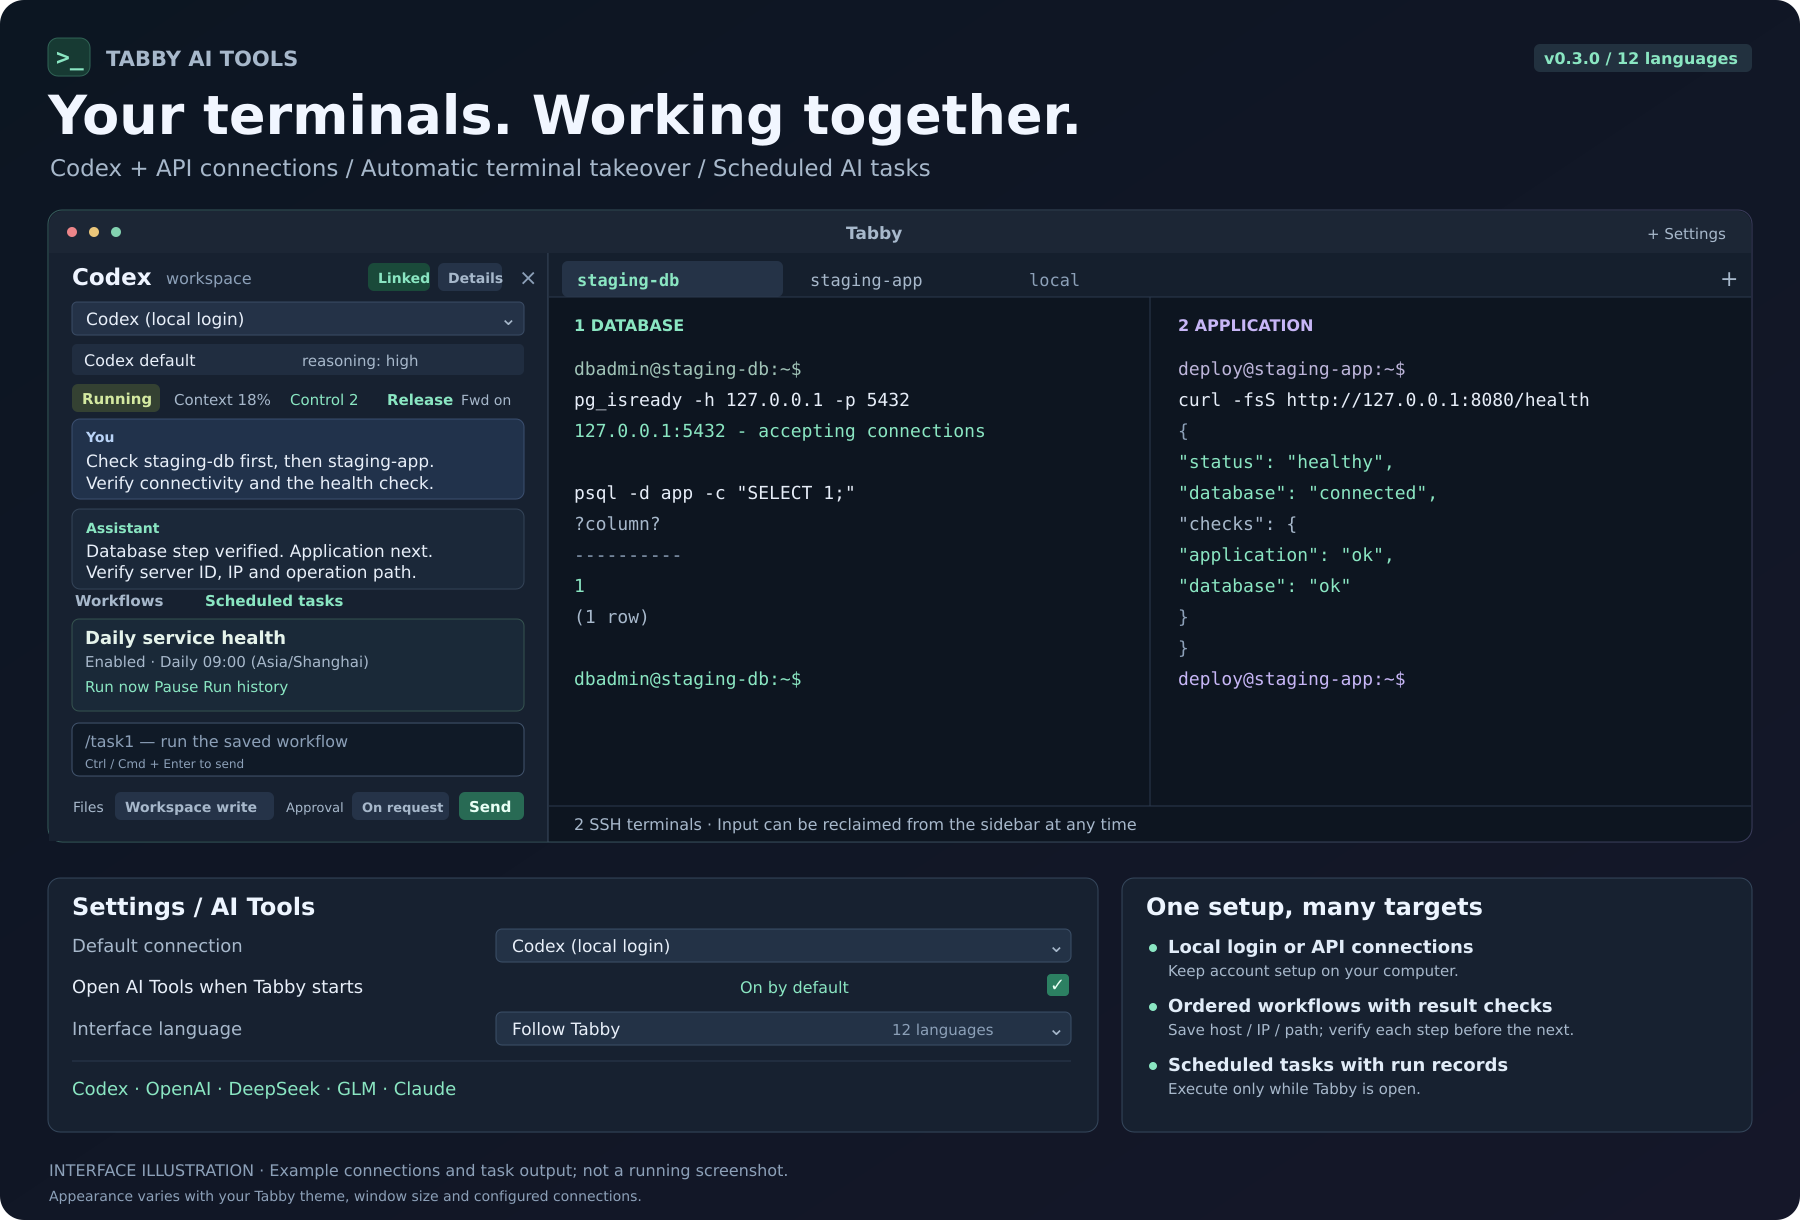
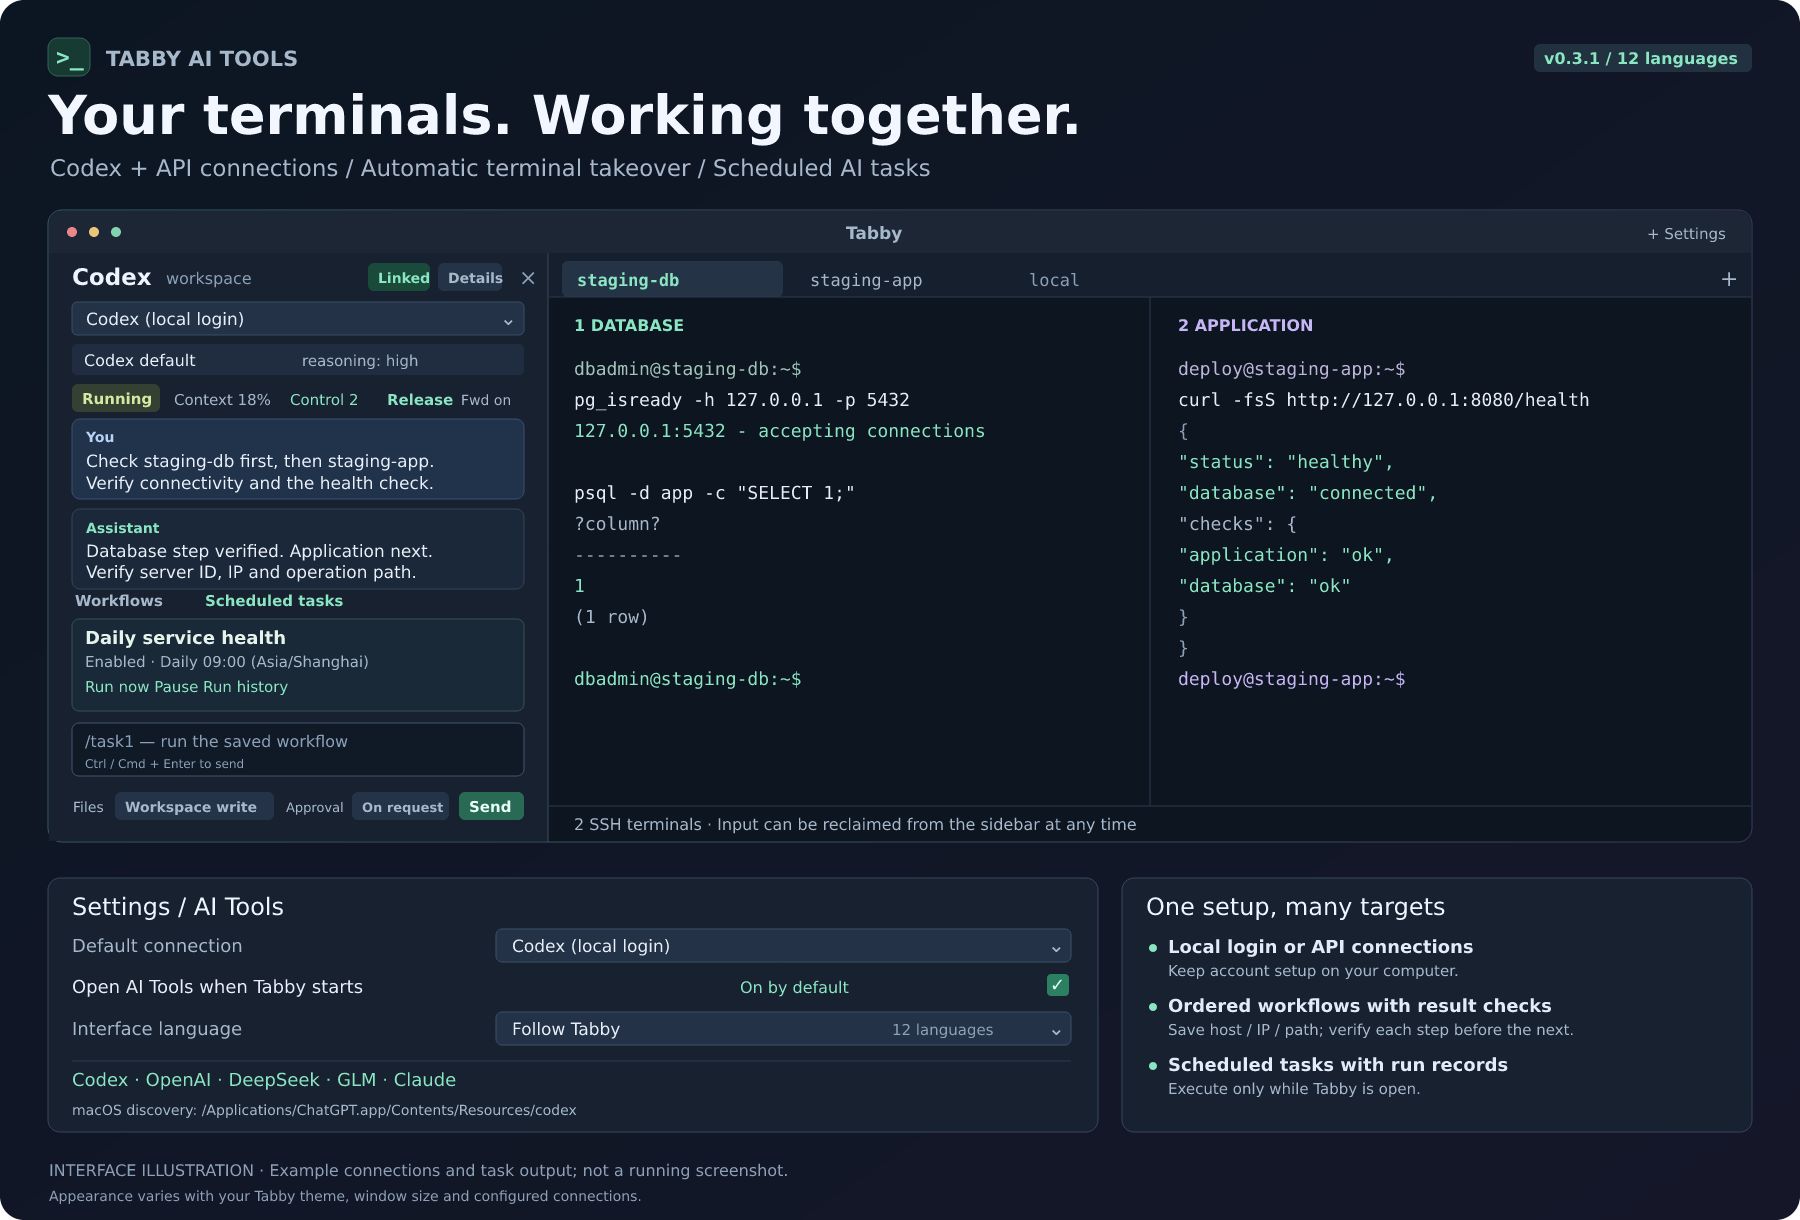
fix: discover macOS ChatGPT bundled Codex and release v0.3.1

diff --git a/test/posix-discovery.test.js b/test/posix-discovery.test.js
@@ -80,6 +80,34 @@ test('custom NVM_DIR is supported and current symlink precedes version scanning'
   assert.equal((await resolveCodexLaunch('codex', f.context)).executable, target)
 })
 
+test('macOS discovers ChatGPT.app bundled Codex without PATH or a working Shell', posix, async t => {
+  const f = fixture(t)
+  f.context.platform = 'darwin'
+  const target = f.file('Applications/ChatGPT.app/Contents/Resources/codex', '#!/bin/sh\nexit 0\n')
+  const launch = await resolveCodexLaunch('', f.context)
+  assert.equal(launch.executable, target)
+  assert.equal(launch.env.PATH.split(':')[0], path.dirname(target))
+  const preferred = f.file('desktop-bin/codex', '#!/bin/sh\nexit 0\n')
+  assert.equal((await resolveCodexLaunch('codex', f.context)).executable, preferred)
+  fs.unlinkSync(preferred)
+  fs.chmodSync(target, 0o644)
+  await assert.rejects(resolveCodexLaunch('', f.context), /ChatGPT\.app\/Contents\/Resources\/codex: EACCES/)
+  fs.chmodSync(target, 0o755)
+  f.context.platform = 'linux'
+  await assert.rejects(resolveCodexLaunch('', f.context), /找不到 Codex CLI/)
+})
+
+test('macOS discovers a system ChatGPT.app bundle and preserves explicit path rules', posix, async t => {
+  const f = fixture(t)
+  f.context.platform = 'darwin'
+  const target = f.file('system Applications/ChatGPT.app/Contents/Resources/codex', '#!/bin/sh\nexit 0\n')
+  f.context.systemDirectories = [path.dirname(target)]
+  assert.equal((await resolveCodexLaunch('codex', f.context)).executable, target)
+  assert.equal((await resolveCodexLaunch(`"${target}"`, f.context)).executable, target)
+  await assert.rejects(resolveCodexLaunch('~/missing/codex', f.context), /未尝试自动查找/)
+  await assert.rejects(resolveCodexLaunch('custom-agent', f.context), /未尝试其他安装/)
+})
+
 test('Shell PATH uses its own pipe, handles banners and preserves PATH for Node and tools', posix, async t => {
   const f = fixture(t)
   const target = f.file('shell tools/codex', '#!/bin/sh\nexit 0\n')

diff --git a/src/codex-discovery.ts b/src/codex-discovery.ts
@@ -146,6 +146,11 @@ async function installDirectories (home: string, env: NodeJS.ProcessEnv, cwd: st
     checkCancelled(context.signal)
   }
   directories.push(...(context.systemDirectories || ['/opt/homebrew/bin', '/usr/local/bin']))
+  if ((context.platform || process.platform) === 'darwin') {
+    directories.push(path.join(home, 'Applications', 'ChatGPT.app', 'Contents', 'Resources'))
+    // systemDirectories replaces host-level locations in discovery fixtures.
+    if (!context.systemDirectories) directories.push('/Applications/ChatGPT.app/Contents/Resources')
+  }
   return [...new Set(directories)]
 }
 

diff --git a/docs/development.md b/docs/development.md
@@ -35,7 +35,7 @@ Tabby 在应用内安装、升级插件后，已由[内置插件管理器](https
 
 运行 `npm test`、`npm run typecheck` 和 `npm run build`。自动测试覆盖显式路径和命令名兼容、PATH 优先级、PATH 无 codex、大小写环境变量、哈希目录缺文件、按文件时间选择、升级后重新扫描、无效显式路径不降级，以及 JSONL 握手、进程重用、流式通知和 stderr。`test/executable.test.js` 在 Linux 上模拟 Windows 定位规则；`test/windows-launch.test.js` 仅在真实 Windows 上执行含空格 exe/cmd/bat 和无 PATH 自动定位管道测试，其他平台明确跳过。exe 夹具使用真正的 Node PE 可执行文件配合测试用 preload；它验证启动方式，不代替真实 Codex 测试。
 
-`test/posix-discovery.test.js` 覆盖 Linux/macOS 定位规则、NVM_DIR、自定义命令及显式路径约定、Shell 启动输出隔离、输出上限、超时及失败后的扫描、查找与启动的 PATH 一致、关闭及切换配置时取消发现；并实际启动 `#!/usr/bin/env node` JSONL 夹具验证桌面 PATH 同时缺少 Codex 和 Node 的情况。新增回归覆盖 Codex 已在 PATH 而 Node 缺失、显式路径不切换安装、Shell 配置传递及父环境优先。`test/process-lifecycle.test.js` 覆盖强制回收、等待旧服务退出、子进程清理和回收失败时阻止重启；Windows 专用测试验证空 PATH 下 cmd 启动器与常驻 Node 子进程的回收。CI 在 Ubuntu、macOS、Windows 上执行测试、类型检查和构建；本机 Linux 的规则模拟不代表 macOS/Windows 实测。
+`test/posix-discovery.test.js` 覆盖 Linux/macOS 定位规则、NVM_DIR、自定义命令及显式路径约定、Shell 启动输出隔离、输出上限、超时及失败后的扫描、查找与启动的 PATH 一致、关闭及切换配置时取消发现；并实际启动 `#!/usr/bin/env node` JSONL 夹具验证桌面 PATH 同时缺少 Codex 和 Node 的情况。新增回归覆盖 Codex 已在 PATH 而 Node 缺失、显式路径不切换安装、Shell 配置传递及父环境优先，以及 macOS ChatGPT.app 内置可执行文件发现、PATH 优先级和无执行权限时的拒绝。`test/process-lifecycle.test.js` 覆盖强制回收、等待旧服务退出、子进程清理和回收失败时阻止重启；Windows 专用测试验证空 PATH 下 cmd 启动器与常驻 Node 子进程的回收。CI 在 Ubuntu、macOS、Windows 上执行测试、类型检查和构建；本机 Linux 的规则模拟不代表 macOS/Windows 实测。
 
 Windows 解压验证包后，用已安装 Node.js 20+ 的 PowerShell 运行（需联网安装 npm 依赖）：
 

diff --git a/README.md b/README.md
@@ -22,7 +22,7 @@
 
 Tabby AI Tools is an AI assistant inside [Tabby](https://github.com/Eugeny/tabby). It reads terminal output, sends commands, and uses the results to decide what to do next. Describe your goal in the sidebar, follow the work in your terminals, and reclaim terminal input whenever needed.
 
-![Tabby AI Tools 0.3.0 interface illustration: the assistant coordinates two SSH terminals, with scheduled tasks, provider connections, automatic startup and language settings](https://raw.githubusercontent.com/Hanlen/tabby-ai-tools/main/docs/assets/overview.png)
+![Tabby AI Tools 0.3.1 interface illustration: the assistant coordinates two SSH terminals, with scheduled tasks, provider connections, automatic startup and language settings](https://raw.githubusercontent.com/Hanlen/tabby-ai-tools/main/docs/assets/overview.png)
 
 <sub>Interface illustration with example tasks and connections; appearance varies with your Tabby theme and window size.</sub>
 
@@ -67,6 +67,8 @@ When elevated access is needed, manually run `sudo ls` or `sudo -v` in the same 
 3. AI Tools opens automatically when Tabby starts, using **Codex (local login)** by default. Choose a model available to your account in the sidebar, or use the Codex default. No settings change is required.
 
 Only your computer needs this Codex installation and login. The assistant can then use your existing Tabby SSH terminals to work on servers; those servers do not need their own ChatGPT login or AI Agent installation.
+
+On macOS, automatic discovery also checks `ChatGPT.app/Contents/Resources/codex` under `/Applications` and `~/Applications`, when that executable exists. For a different installation location, set the full path in **Settings → AI Tools → Codex CLI executable**.
 
 ## Orchestrate tasks in natural language
 

diff --git a/VALIDATION.md b/VALIDATION.md
@@ -219,3 +219,10 @@ HTTP 服务工作目录只含 tabby-codex-windows-validation.tar.gz，日志和 
 流程由 `/remember TASK` 显式录制，完成后配置别名，`/task1` 调用。步骤保存服务器连接／持久 ID、已确认 IP、账户、端口、绝对操作路径、串行依赖、验收条件与证据。增加 `workflow_checkpoint` 与 `verificationFor`，对同终端的新观察、未完成前置步骤、并行发送、身份／目录不符和弱化验收条件进行门禁；业务结果语义仍由模型判断。旧格式可读，缺失结构建议重新录制。
 
 验证使用真实流程存储与模拟后端／终端：覆盖两台服务器相同命令不合并、跨服务器阻断、旧读／错误终端／运行中结果不能确认、检查命令不推进步骤、目标及路径不符、显式身份探测和绑定。sudo 用假命令测试，不使用真实凭据；未进行真实 Tabby 桌面、SSH、多供应商模型端到端或耗时／token 对比测试。
+
+
+## macOS ChatGPT.app 路径修复（0.3.1）
+
+默认发现补充 `~/Applications/ChatGPT.app/Contents/Resources/codex` 和 `/Applications/ChatGPT.app/Contents/Resources/codex`，保留 PATH、Shell、NVM 及常见安装目录优先级。回归验证用户应用目录、替代系统应用目录、带空格显式路径、无执行权限拒绝、自定义命令不降级，以及 Linux 不扫描 macOS 用户应用目录。
+
+本地 Linux：469 项测试，464 通过、5 项平台跳过；类型检查、skill 一致性和生产构建通过。真实 ChatGPT.app 安装布局及 Tabby macOS 桌面端到端未在本机验证；不调用收费模型烟测。跨平台分支与标签 CI 结果由 GitHub Actions 单独核验。

diff --git a/docs/releases/0.3.1.md b/docs/releases/0.3.1.md
@@ -1,0 +1,9 @@
+# Tabby AI Tools 0.3.1
+
+Fix automatic Codex discovery on macOS when the executable is bundled inside ChatGPT.app instead of being available on PATH. Discovery now checks `~/Applications/ChatGPT.app/Contents/Resources/codex` and `/Applications/ChatGPT.app/Contents/Resources/codex` after the existing Shell, NVM and common installation locations. Explicit paths, custom command names and existing PATH selections retain their priority and validation rules.
+
+Update both READMEs, the troubleshooting and development guides, and the editable SVG/PNG overview with the current version and macOS discovery example. Preserve the animated header robot and reduced-motion fallback.
+
+Validation: bundled skill generation/consistency, TypeScript, 469 local tests (464 passed, five platform skips), production build, whitespace checks, rendered bilingual Markdown, illustration/animation inspection and actual npm tarball contents. Branch and tag publication are gated on the GitHub Actions Linux/macOS/Windows matrix.
+
+Limitations: local discovery tests use filesystem fixtures on Linux; they do not verify any particular ChatGPT.app installation or guarantee a stable internal bundle layout. No live Tabby desktop/SSH end-to-end or paid model smoke tests were run. For other application locations, configure the actual executable path in Settings → AI Tools.
